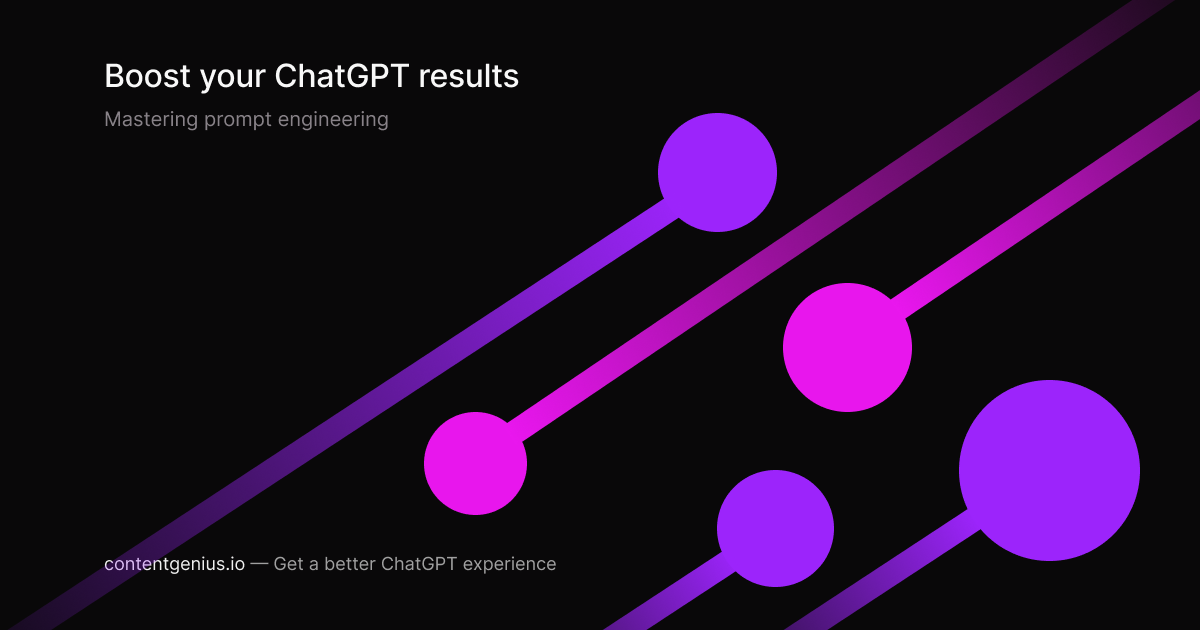
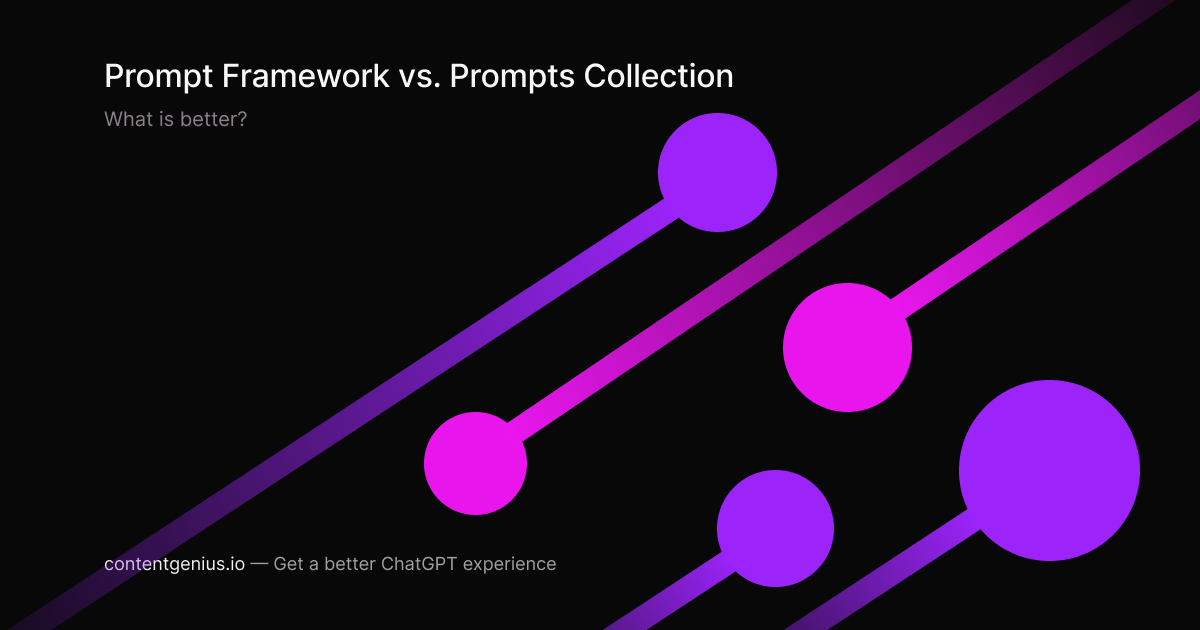
update blog post images

Changed region(s): [[0.0925, 0.0905, 0.6167, 0.1508], [0.0925, 0.181, 0.3392, 0.2111]]

diff --git a/src/content/blog/how-ai-is-transforming-content-creation.md b/src/content/blog/how-ai-is-transforming-content-creation.md
@@ -9,12 +9,12 @@ subtitle: "How AI is Changing the Game"
 description: "Discover how AI is transforming the content creation landscape and how to stay competitive by embracing AI-powered tools."
 image:
   {
-    src: "/blog/how-ai-is-transforming-content-creation.png",
+    src: "/blog/how-ai-is-transforming-content-creation/cover.png",
     alt: "Content Genius preview",
   }
 openGraph:
-  image: ""
-  description: "..."
+  image: "blog/how-ai-is-transforming-content-creation/og_image.png"
+  description: "AI-Empowers creators illustration"
 publishDate: 2023-05-08 12:50:12
 ---
 
